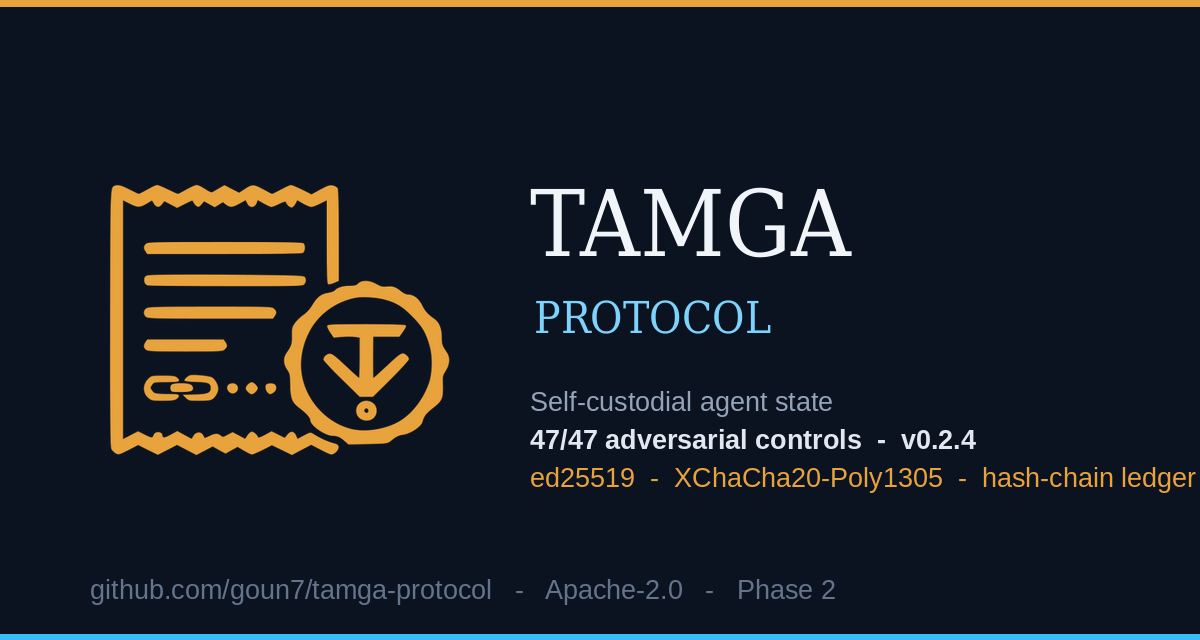
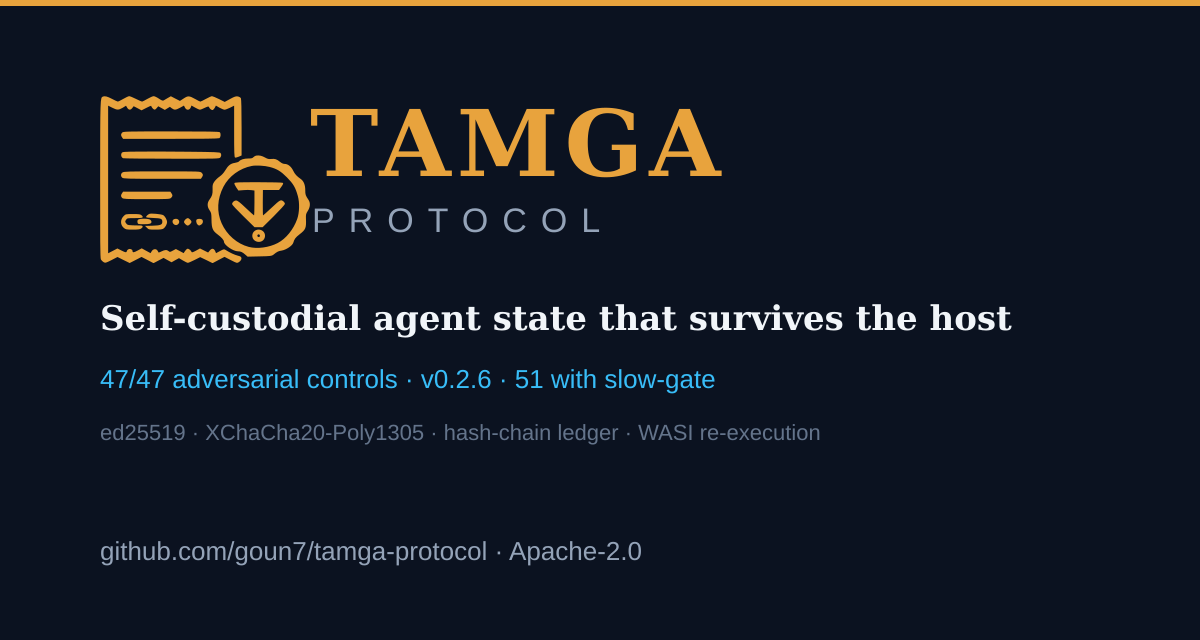
docs+tooling: 0.2.6 closeout — REPRODUCE last-verified lines now 0.2.6/live-PyPI/2026-09-15 (EN+TR, incl. the pip-cache propagation lesson); TR 46/50→47/51 counter-drift fixed repo-wide; social-preview made REGENERABLE: tools/gen_social_preview.py reads version from pyproject + counts from TESTS.md 

diff --git a/tools/gen_social_preview.py b/tools/gen_social_preview.py
@@ -1,0 +1,77 @@
+#!/usr/bin/env python3
+"""gen_social_preview.py — docs/assets/social-preview.png üreteci (1200x640).
+
+Kalıcılık-gerekçesi: 09-13 kartı elle üretildi; sürüm kartına "v0.2.4" gömüldü,
+0.2.5/0.2.6 yayınlanınca kart BAYATLADI (taze-kullanıcı denetimi 2026-09-15).
+Bu script sürümü pyproject.toml'dan, kontrol-sayısını docs/TESTS.md'den OKUR —
+tek-gercek-kaynak-kuralı: kart ASLA elle-sürüm-metni TAŞIMAZ.
+
+Kullanım: python3 tools/gen_social_preview.py
+Bağımlılık: rsvg-convert (system), fontconfig'ta DejaVu Serif Condensed + Liberation Sans.
+Doğrulama-rutini: çıktıyı OCR ile-oku (tesseract eng) — dört-satır-da-görünmüyorsa
+kart BEYAZ-ENDEKS-Lİ; yayın-yasak.
+"""
+import pathlib
+import re
+import subprocess
+import sys
+
+ROOT = pathlib.Path(__file__).resolve().parent.parent
+
+def main() -> int:
+    ver = re.search(r'^version = "([^"]+)"', (ROOT / "pyproject.toml").read_text(), re.M).group(1)
+    tests = (ROOT / "docs" / "TESTS.md").read_text()
+    fast = re.search(r"(\d+)/\d+ controls", tests).group(1)
+    slow = re.search(r"(\d+)/\d+ with RUN_SLOW", tests).group(1)
+    logo_src = (ROOT / "docs" / "assets" / "logo.svg").read_text()
+    vb = re.search(r'viewBox="0 0 ([\d.]+) ([\d.]+)"', logo_src)
+    vw, vh = float(vb.group(1)), float(vb.group(2))
+    inner = re.sub(r"^.*?<svg[^>]*>", "", logo_src, flags=re.S)
+    inner = re.sub(r"</svg>\s*$", "", inner)
+    MW, MH = 210, 210 * vh / vw
+    svg = f"""<svg xmlns="http://www.w3.org/2000/svg" width="1200" height="640" viewBox="0 0 1200 640">
+<rect width="1200" height="640" fill="#0b1220"/>
+<rect x="0" y="0" width="1200" height="6" fill="#e8a33d"/>
+<svg x="100" y="96" width="{MW:.0f}" height="{MH:.0f}" viewBox="0 0 {vw:.0f} {vh:.0f}" color="#e8a33d">{inner}</svg>
+<text x="310" y="176" font-family="DejaVu Serif" font-weight="bold" font-size="92" fill="#e8a33d" letter-spacing="6">TAMGA</text>
+<text x="312" y="232" font-family="Liberation Sans" font-size="34" fill="#94a3b8" letter-spacing="14">PROTOCOL</text>
+<text x="100" y="330" font-family="DejaVu Serif" font-weight="bold" font-size="34" fill="#f1f5f9">Self-custodial agent state that survives the host</text>
+<text x="100" y="388" font-family="Liberation Sans" font-size="26" fill="#38bdf8">{fast}/{fast} adversarial controls · v{ver} · {slow} with slow-gate</text>
+<text x="100" y="440" font-family="Liberation Sans" font-size="22" fill="#64748b">ed25519 · XChaCha20-Poly1305 · hash-chain ledger · WASI re-execution</text>
+<text x="100" y="560" font-family="Liberation Sans" font-size="26" fill="#94a3b8">github.com/goun7/tamga-protocol · Apache-2.0</text>
+</svg>"""
+    tmp = pathlib.Path("/tmp/social-preview.svg")
+    tmp.write_text(svg, encoding="utf-8")
+    out = ROOT / "docs" / "assets" / "social-preview.png"
+    r = subprocess.run(["rsvg-convert", "-w", "1200", "-h", "640", "-o", str(out), str(tmp)])
+    if r.returncode != 0:
+        print("rsvg-convert BAŞARISIZ", file=sys.stderr); return 1
+    # oto-doğrulama (2026-09-15 dersi: ilk regenerasyon satır-kenetlenmesiyle kaçtı —
+    # OCR-YLA-yakalandı; şimdi araç KENDİ çıktısını band-profilinden-sayar):
+    import numpy as np
+    from PIL import Image
+    im = np.array(Image.open(out).convert("RGB")).astype(int)
+    fg = (im.sum(axis=2) > 240)  # #0b1220-toplam≈107 vs metin-min-#64748b≈356 altından-güvenli
+    rows = fg[:, 80:1160].sum(axis=1)
+    bands, cur, low_streak = [], None, 0
+    for y, v in enumerate(rows):
+        if v >= 12:                      # gerçek-metin-satırı
+            cur = [cur[0], y] if cur else [y, y]
+            low_streak = 0
+        elif cur is not None:
+            low_streak += 1              # antialiasing-kuyruğu-toleransı
+            if low_streak >= 6:
+                bands.append(cur); cur = None
+    if cur is not None:
+        bands.append(cur)
+    gaps = [bands[i+1][0]-bands[i][1] for i in range(len(bands)-1)]
+    if len(bands) != 6 or any(g < 14 for g in gaps):
+        print(f"BAND-KONTROL BAŞARISIZ: {len(bands)} bant {bands}, boşluklar {gaps} "
+              f"(6 bant, hepsi >=14px beklenirdi) — kart YAYINLANMADI", file=sys.stderr)
+        return 2
+    print(f"üretildi: {out} (v{ver}, {fast}/{slow}) — 6 bant, min-boşluk {min(gaps)}px ✓ "
+          f"OCR-rutini yine-önerilir")
+    return 0
+
+if __name__ == "__main__":
+    sys.exit(main())

diff --git a/docs/PLAIN-TURKISH.md b/docs/PLAIN-TURKISH.md
@@ -36,8 +36,8 @@ Bugün bir yapay zekâ ajanı sizin adınıza bir şey yaptığında (satın alm
 run — inputs, outputs, fees, and the network permissions it acted under — lands as a
 hash-chained record that any third party can verify offline with a single command, without
 trusting the agent's owner. The agent carries its encrypted ledger between hosts as one
-snapshot. Status: working prototype, simulation only (no real money), 46-control fast /
-50-control slow acceptance suite, two external-verification tracks live on the x402
+snapshot. Status: working prototype, simulation only (no real money), 47-control fast /
+51-control slow acceptance suite, two external-verification tracks live on the x402
 standard discussion, and the anchor surface is now two-sided: a chain head projects
 into a foreign registry batch (project-head), and foreign anchor lines / proof
 bundles verify on our side (PUGIO receiver + ingest — installable from PyPI). The core discipline: **every claim ships with the evidence that produced

diff --git a/docs/REPRODUCE.tr.md b/docs/REPRODUCE.tr.md
@@ -12,11 +12,13 @@ tamga --version && tamga doctor   # motor-gerektirmeyen yolçaplar SAĞLIKLI rap
 
 Doğrulama-komutları (`ledger-verify`, `verify-mini`, `bundle`, `explain`) 67 MB'lık
 motor olmadan çalışır; motor ilk `tamga run`'da bir-kereliğine, SHA256-pinli iner.
-Yayınlanan-wheel'den (**0.2.4**, canlı-PyPI) son-doğrulama: **2026-09-13** —
+Yayınlanan-wheel'den (**0.2.6**, canlı-PyPI) son-doğrulama: **2026-09-15** —
 quickstart-U2E + `tamga explain --charge` + wheel-tarafı keccak-KAT + ledger-verify
-+ verify-mini + bundle; hepsi temiz-venv'de yeşil.
++ verify-mini + bundle + `epoch-verify --selftest`; hepsi temiz-venv'de yeşil.
+(0.2.4→0.2.5 `epoch-verify`'yi wheel'e koydu; 0.2.5→0.2.6 `explain` kotu-girdiyi mesaj-RED'e
+cevirdi — ikisi-de canli-wheel-kurulup-yabanci-gözüyle-kullanilince-bulundu.)
 
-## 1. Tam kabul-süiti (46 kontrol, ~20 sn)
+## 1. Tam kabul-süiti (47 kontrol, ~20 sn)
 
 ```bash
 git clone https://github.com/goun7/tamga-protocol && cd tamga-protocol

diff --git a/docs/REPRODUCE.md b/docs/REPRODUCE.md
@@ -12,9 +12,11 @@ tamga --version && tamga doctor   # engine-free paths report SAĞLIKLI
 
 Verification commands (`ledger-verify`, `verify-mini`, `bundle`, `explain`) work
 without the 67 MB engine; it downloads once, SHA256-pinned, on first `tamga run`.
-Last verified from the published wheel (**0.2.4**, live PyPI): **2026-09-13** —
+Last verified from the published wheel (**0.2.6**, live PyPI): **2026-09-15** —
 quickstart E2E + `tamga explain --charge` + wheel-side keccak KAT +
-ledger-verify + verify-mini + bundle, all green from a clean venv.
+ledger-verify + verify-mini + bundle + `epoch-verify --selftest`, all green from a clean venv.
+(0.2.4→0.2.5 shipped `epoch-verify` in the wheel; 0.2.5→0.2.6 hardened `explain` bad-input to
+message-RED — both found by installing the live wheel and using it as a stranger would.)
 
 ## 1. The full acceptance suite (47 controls, ~20 s)
 

diff --git a/docs/INDEX.md b/docs/INDEX.md
@@ -21,7 +21,7 @@ gives the intended reading paths — pick by role; within each path, order matte
 ## The verifier path (auditors, skeptics)
 
 1. [REPRODUCE.md](REPRODUCE.md) — full acceptance suite + `tamga_verify_mini.py` (stdlib-only: trust nothing, run everything)
-2. [TESTS.md](TESTS.md) — the 46-control family table (50 with `RUN_SLOW=1`), what each proves
+2. [TESTS.md](TESTS.md) — the 47-control family table (51 with `RUN_SLOW=1`), what each proves
 3. [AUDIT-GATE.md](AUDIT-GATE.md) — audit-round discipline
 4. [RFC-007-schema-revision-v02.md](RFC-007-schema-revision-v02.md) — the implemented v0.2 deltas (R1–R3) with their AT evidence
 5. [PAIRING-FIXTURE.md](PAIRING-FIXTURE.md) — the cross-ledger evidence chain, every field labeled `simulated|observed|derived`

diff --git a/docs/TESTS.md b/docs/TESTS.md
@@ -72,7 +72,7 @@ a "fix" that makes them pass is itself a regression and fails the suite.
 
 ## CI
 
-`.github/workflows/ci.yml` runs the full 46-control suite on a
+`.github/workflows/ci.yml` runs the full 47-control suite on a
 `["3.10","3.11","3.12","3.13"]` matrix with
 wasmtime v48.0.1 (downloaded from the pinned release tarball) on every push to `main`.
 The badge in the README links to the workflow.
